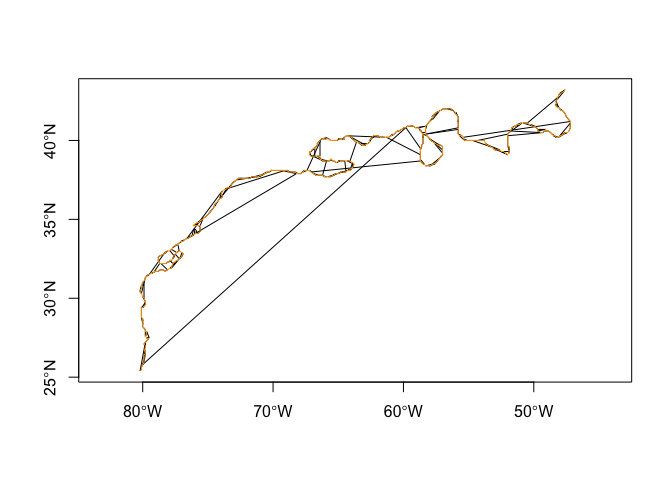
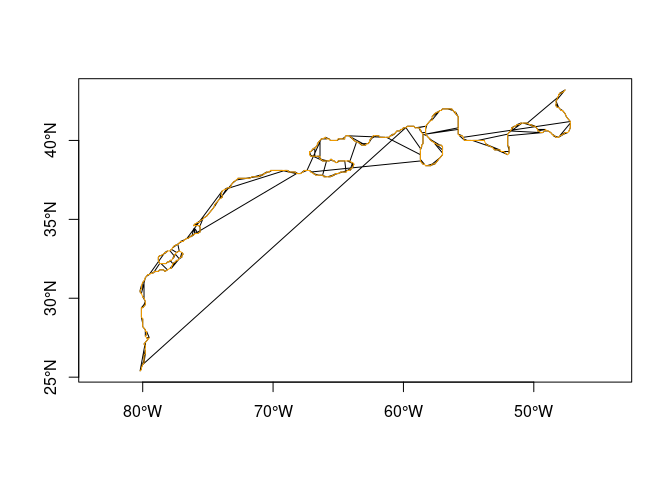
rerun README

diff --git a/README.md b/README.md
@@ -39,7 +39,7 @@ suppressPackageStartupMessages({
   library(rnaturalearth)
 })
 
-x = read_usn() |>
+x = read_usn(what = "orig") |>
   dplyr::glimpse()
 ```
 
@@ -56,7 +56,7 @@ simple plot of all of the locations.
 bb = sf::st_bbox(x)
 coast = rnaturalearth::ne_coastline(scale = "medium", returnclass = "sf")
 
-plot(x['wall'], pch = 3, axes = TRUE, reset = FALSE)
+plot(x['wall'], pch = ".", axes = TRUE, reset = FALSE)
 plot(sf::st_geometry(coast), add = TRUE)
 ```
 
@@ -78,12 +78,18 @@ be stored anywhere, but by default we look for it isn `~/.gstream`.
 
 ``` r
 cfg = read_configuration()
+```
+
+    ## Warning in readLines(file, warn = readLines.warn): incomplete final line found
+    ## on '~/.gstream'
+
+``` r
 cfg
 ```
 
     ## $usn
     ## $usn$rawpath
-    ## [1] "/Users/ben/Dropbox/data/gstream/usn/raw"
+    ## [1] "/mnt/s1/projects/ecocast/coredata/gstream/usn/raw"
     ## 
     ## $usn$dailyuri
     ## [1] "https://ocean.weather.gov/gulf_stream_latest.txt"
